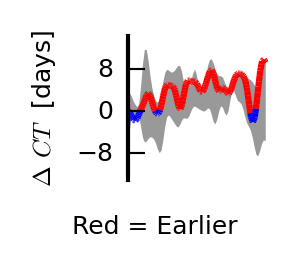
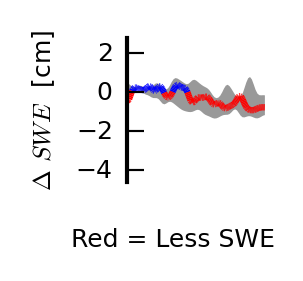
shading to SWE

diff --git a/Ex1.py b/Ex1.py
@@ -525,7 +525,7 @@ figsize.append((1.1,0.6))
 figsize_leg = (0.6,0.6)
 
 #plots_to_plot = range(4,5)
-plots_to_plot = [8]
+plots_to_plot = [90]
 print 'Plots to be plotted are:', '\t', plots_to_plot
 for plot_num in plots_to_plot:
     
@@ -1087,10 +1087,12 @@ for plot_num in plots_to_plot:
             
 ############  Max SWE w mini figs ############    
     elif plot_num == 9:
+        plt.close()
+        
+        # Calculate Baseline
         file_nm = data_path + 'Snow_(Subbasin)_Ref_Run0.csv'
         file_nmWB = data_path + 'Snow_(mm)_Ref_Run0.csv'
        
-        plt.close()
         data1=[mfx(file_nm, column=subbasin_data_snow_col[i], skip=cst.day_of_year_oct1) for i in range(11)]
         data1.append(mfx(file_nmWB, column=subbasin_data_snow_col[11], skip=cst.day_of_year_oct1))
         SWE1 = [np.max(data1[i],1)*subbasin_data_area[i]/10./subbasin_data_area[11] for i in range(12)]  # max SWE (cm) over winter each year for ea subbasin
@@ -1108,24 +1110,45 @@ for plot_num in plots_to_plot:
         SWE_avg = [(SWE1[i]+SWE2[i]+SWE3[i])/3. for i in range(12)]
         baseline = [np.mean(SWE_avg[i][0:10]) for i in range(12)]  #1's are drought
                 
+        # Calculate baseline-subtracted value
         window = binomial_window(15)
         SWE_smthd = [np.subtract(movingaverage(SWE1[i],window), baseline[i]) for i in range(12)]
-        maxd = np.max(np.array([np.max(SWE_smthd[i][8:83]) for i in range(12)]))
-        mind = np.min(np.array([np.min(SWE_smthd[i][8:83]) for i in range(12)]))
+        
+        data_to_stack = []
+        for key in scenarios:
+            data1=[mfx(file_nm.replace('_Ref_Run0',scenarios[key]), column=subbasin_data_snow_col[i], 
+                       skip=cst.day_of_year_oct1) for i in range(11)]
+            data1.append(mfx(file_nmWB.replace('_Ref_Run0',scenarios[key]), 
+                             column=subbasin_data_snow_col[11], skip=cst.day_of_year_oct1))
+            SWE1 = [np.max(data1[i],1)*subbasin_data_area[i]/10./subbasin_data_area[11] for i in range(12)]  # max SWE (cm) over winter each year for ea subbasin
+            data_to_stack.append([np.subtract(movingaverage(SWE1[i],window), baseline[i]) for i in range(12)])  
+
+        data_to_stack = [tuple([data_to_stack[j][i] for j in range(len(data_to_stack))]) for i in range(12)]
+        data_stacked = [np.column_stack(data_to_stack[i]) for i in range(12)] 
+        upper = [np.max(data_stacked[i][8:83],1) for i in range(12)]
+        lower = [np.min(data_stacked[i][8:83],1) for i in range(12)]
+            
+        maxd = np.max(np.array([np.max(upper[i]) for i in range(12)]))
+        mind = np.min(np.array([np.min(lower[i]) for i in range(12)]))
         SWE_smthd = [SWE_smthd[i][8:83] for i in range(12)]
         xctr = 0.5
         yctr = 0.75
         
         redblue = ['blue','red']
         num_yrs = len(SWE_smthd[0])
-        write_tinyfigs(SWE_smthd,figsize,mind,maxd,redblue, num_yrs)
+        write_tinyfigs2(SWE_smthd, upper, lower, figsize,
+                        mind,maxd,redblue, num_yrs, facecolor = '0.6',
+                        linewidth = 1.5)
         
         ylabel = r'$\Delta \, SWE\,$ [cm]'
         xlabel = 'Red = Less SWE'
-        write_legend(SWE_smthd[0],figsize_leg,mind,maxd,redblue,num_yrs,ylabel,xlabel)
+        write_legend2(SWE_smthd[0], upper[0], lower[0],figsize_leg,
+                      mind,maxd,redblue,num_yrs,ylabel,xlabel, facecolor='0.6',
+                      linewidth=1.5)
+               
         
         title = "Change in Basin-Averaged Max SWE"
         file_graphics = 'change_in_max_SWE_wGrphs.png'        
 
         write_map(title, lons, lats, file_graphics, get_metadata(), shp)
-        
+       
